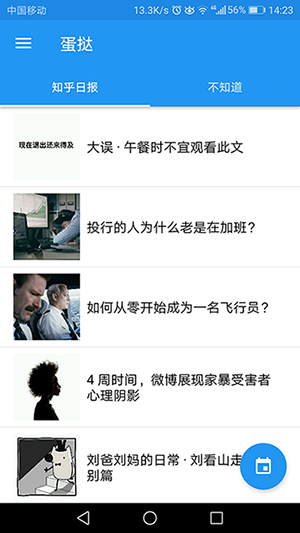
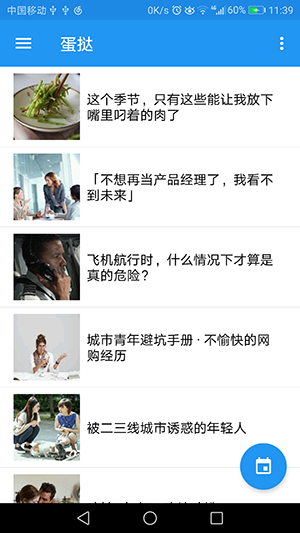
Initial commit

diff --git a/app/src/main/java/com/example/lzz/knowledge/ui/home/MainActivity.java b/app/src/main/java/com/example/lzz/knowledge/ui/home/MainActivity.java
@@ -2,6 +2,7 @@ package com.example.lzz.knowledge.ui.home;
 
 import android.content.Intent;
 import android.support.annotation.NonNull;
+import android.support.design.widget.FloatingActionButton;
 import android.support.design.widget.NavigationView;
 import android.support.v4.app.FragmentManager;
 import android.support.v4.app.FragmentTransaction;
@@ -10,9 +11,7 @@ import android.support.v7.app.ActionBarDrawerToggle;
 import android.support.v7.app.AppCompatActivity;
 import android.os.Bundle;
 import android.support.v7.widget.Toolbar;
-import android.util.Log;
 import android.view.MenuItem;
-import android.view.View;
 import android.widget.LinearLayout;
 import android.widget.Toast;
 
@@ -28,10 +27,13 @@ public class MainActivity extends AppCompatActivity implements NavigationView.On
     private Toolbar toolbar;
     private DrawerLayout drawerLayout;
     private NavigationView navigationView;
+    private FloatingActionButton fab;
     private LinearLayout bottomLayout;
 
     private MainFragment mainFragment;
     private MeizhiFragment meizhiFragment;
+
+    private ZhihuDailyFragment zhihuDailyFragment;
     private BookmarksFragment bookmarksFragment;
 
     @Override
@@ -42,6 +44,7 @@ public class MainActivity extends AppCompatActivity implements NavigationView.On
         setSupportActionBar(toolbar);
         drawerLayout = (DrawerLayout) findViewById(R.id.drawer_layout);
         navigationView = (NavigationView) findViewById(R.id.nav_view);
+        fab = (FloatingActionButton) findViewById(R.id.fab);
         bottomLayout = (LinearLayout)findViewById(R.id.bookmark_bottom_editor_layout);
 
         ActionBarDrawerToggle toggle = new ActionBarDrawerToggle(this, drawerLayout,toolbar,
@@ -55,18 +58,18 @@ public class MainActivity extends AppCompatActivity implements NavigationView.On
 
         if (savedInstanceState != null){
             FragmentManager manager = getSupportFragmentManager();
-            mainFragment = (MainFragment)manager.getFragment(savedInstanceState, "MainFragment");
+            zhihuDailyFragment = (ZhihuDailyFragment) manager.getFragment(savedInstanceState, "ZhihuDailyFragment");
             bookmarksFragment = (BookmarksFragment)manager.getFragment(savedInstanceState,"BookmarksFragment");
 //            meizhiFragment = (MeizhiFragment)manager.getFragment(savedInstanceState, "MeizhiFragment");
         } else {
-            mainFragment = MainFragment.newInstance();
+            zhihuDailyFragment = ZhihuDailyFragment.newInstance();
             bookmarksFragment = BookmarksFragment.newInstance();
 //            meizhiFragment = MeizhiFragment.newInstance();
         }
 
-        if (!mainFragment.isAdded()) {
+        if (!zhihuDailyFragment.isAdded()) {
             getSupportFragmentManager().beginTransaction()
-                    .add(R.id.layout_fragment, mainFragment, "MainFragment")
+                    .add(R.id.layout_fragment, zhihuDailyFragment, "ZhihuDailyFragment")
                     .commit();
         }
 
@@ -82,9 +85,10 @@ public class MainActivity extends AppCompatActivity implements NavigationView.On
                     .commit();
         }
 
+        new ZhihuDailyPresenter(MainActivity.this, zhihuDailyFragment);
         new BookmarksPresenter(MainActivity.this, bookmarksFragment);
 
-        showMainFragment();
+        showZhihuFragment();
 
         startService(new Intent(this, CacheService.class));
     }
@@ -93,7 +97,7 @@ public class MainActivity extends AppCompatActivity implements NavigationView.On
     public boolean onNavigationItemSelected(@NonNull MenuItem item) {
         drawerLayout.closeDrawers();
         if (item.getItemId() == R.id.nav_home){
-            showMainFragment();
+            showZhihuFragment();
 
         } else if (item.getItemId() == R.id.nav_bookmarks){
             showBookmarksFragment();
@@ -109,22 +113,26 @@ public class MainActivity extends AppCompatActivity implements NavigationView.On
         return true;
     }
 
-    private void showMainFragment(){
+    private void showZhihuFragment(){
+        fab.show();
 
         FragmentTransaction fragmentTransaction = getSupportFragmentManager().beginTransaction();
         if (!bookmarksFragment.isHidden()){
             fragmentTransaction.hide(bookmarksFragment);
         }
-        fragmentTransaction.show(mainFragment);
+        fragmentTransaction.show(zhihuDailyFragment);
         fragmentTransaction.commit();
+
 
         toolbar.setTitle(getResources().getString(R.string.app_name));
     }
 
     private void showBookmarksFragment(){
+        fab.hide();
+
         FragmentTransaction fragmentTransaction = getSupportFragmentManager().beginTransaction();
-        if (!mainFragment.isHidden()){
-            fragmentTransaction.hide(mainFragment);
+        if (!zhihuDailyFragment.isHidden()){
+            fragmentTransaction.hide(zhihuDailyFragment);
         }
         fragmentTransaction.show(bookmarksFragment);
         fragmentTransaction.commit();
@@ -166,8 +174,8 @@ public class MainActivity extends AppCompatActivity implements NavigationView.On
     private long exitTime = 0;
     @Override
     public void onBackPressed() {
-        if (mainFragment.isHidden()){
-            showMainFragment();
+        if (zhihuDailyFragment.isHidden()){
+            showZhihuFragment();
             navigationView.setCheckedItem(R.id.nav_home);
         } else {
             if(System.currentTimeMillis() - exitTime > 2000) {
@@ -183,8 +191,8 @@ public class MainActivity extends AppCompatActivity implements NavigationView.On
     protected void onSaveInstanceState(Bundle outState) {
         super.onSaveInstanceState(outState);
         FragmentManager manager = getSupportFragmentManager();
-        if (mainFragment.isAdded()){
-            manager.putFragment(outState, "MainFragment", mainFragment);
+        if (zhihuDailyFragment.isAdded()){
+            manager.putFragment(outState, "ZhihuDailyFragment", zhihuDailyFragment);
         }
         if (bookmarksFragment.isAdded()){
             manager.putFragment(outState,"BookmarksFragment", bookmarksFragment);

diff --git a/app/src/main/java/com/example/lzz/knowledge/ui/home/ZhihuDailyFragment.java b/app/src/main/java/com/example/lzz/knowledge/ui/home/ZhihuDailyFragment.java
@@ -2,6 +2,7 @@ package com.example.lzz.knowledge.ui.home;
 
 import android.content.ClipboardManager;
 import android.content.Context;
+import android.content.Intent;
 import android.os.Bundle;
 import android.support.design.widget.FloatingActionButton;
 import android.support.design.widget.TabLayout;
@@ -10,6 +11,9 @@ import android.support.v4.widget.SwipeRefreshLayout;
 import android.support.v7.widget.LinearLayoutManager;
 import android.support.v7.widget.RecyclerView;
 import android.view.LayoutInflater;
+import android.view.Menu;
+import android.view.MenuInflater;
+import android.view.MenuItem;
 import android.view.View;
 import android.view.ViewGroup;
 import android.widget.Toast;
@@ -18,6 +22,8 @@ import com.example.lzz.knowledge.R;
 import com.example.lzz.knowledge.adapter.ZhihuDailyAdapter;
 import com.example.lzz.knowledge.bean.ZhihuDaily;
 import com.example.lzz.knowledge.adapter.OnRecyclerViewOnClickListener;
+import com.example.lzz.knowledge.ui.about.AboutActivity;
+import com.example.lzz.knowledge.ui.settings.SettingActivity;
 import com.example.lzz.knowledge.utils.DateFormatTool;
 import com.wdullaer.materialdatetimepicker.date.DatePickerDialog;
 
@@ -58,6 +64,8 @@ public class ZhihuDailyFragment extends Fragment implements ZhihuDailyContract.V
         View view = inflater.inflate(R.layout.fragment_list, container, false);
 
         initViews(view);
+
+        setHasOptionsMenu(true);
 
         presenter.start();
 
@@ -154,6 +162,25 @@ public class ZhihuDailyFragment extends Fragment implements ZhihuDailyContract.V
 
         fab = (FloatingActionButton)getActivity().findViewById(R.id.fab);
         tabLayout = (TabLayout)getActivity().findViewById(R.id.tab_layout);
+    }
+
+    @Override
+    public void onCreateOptionsMenu(Menu menu, MenuInflater inflater) {
+        inflater.inflate(R.menu.menu_main, menu);
+        super.onCreateOptionsMenu(menu, inflater);
+    }
+
+    @Override
+    public boolean onOptionsItemSelected(MenuItem item) {
+        switch (item.getItemId()){
+            case R.id.main_settings:
+                startActivity(new Intent(getActivity(), SettingActivity.class));
+                break;
+            case R.id.main_about:
+                startActivity(new Intent(getActivity(), AboutActivity.class));
+        }
+
+        return super.onOptionsItemSelected(item);
     }
 
     @Override

diff --git a/app/src/main/java/com/example/lzz/knowledge/ui/home/ZhihuDailyPresenter.java b/app/src/main/java/com/example/lzz/knowledge/ui/home/ZhihuDailyPresenter.java
@@ -10,6 +10,7 @@ import android.database.Cursor;
 import android.database.sqlite.SQLiteDatabase;
 import android.os.IBinder;
 import android.support.v4.content.LocalBroadcastManager;
+import android.util.Log;
 
 import com.example.lzz.knowledge.bean.ZhihuDaily;
 import com.example.lzz.knowledge.db.DatabaseHelper;
@@ -84,6 +85,7 @@ public class ZhihuDailyPresenter implements ZhihuDailyContract.Presenter{
                 @Override
                 public void onResponse(Call call, Response response) throws IOException {
                     final String result = response.body().string();
+                    Log.d("ZhihuDailyPresenter", "test:" + result);
                     ((Activity)context).runOnUiThread(new Runnable() {
                         @Override
                         public void run() {
